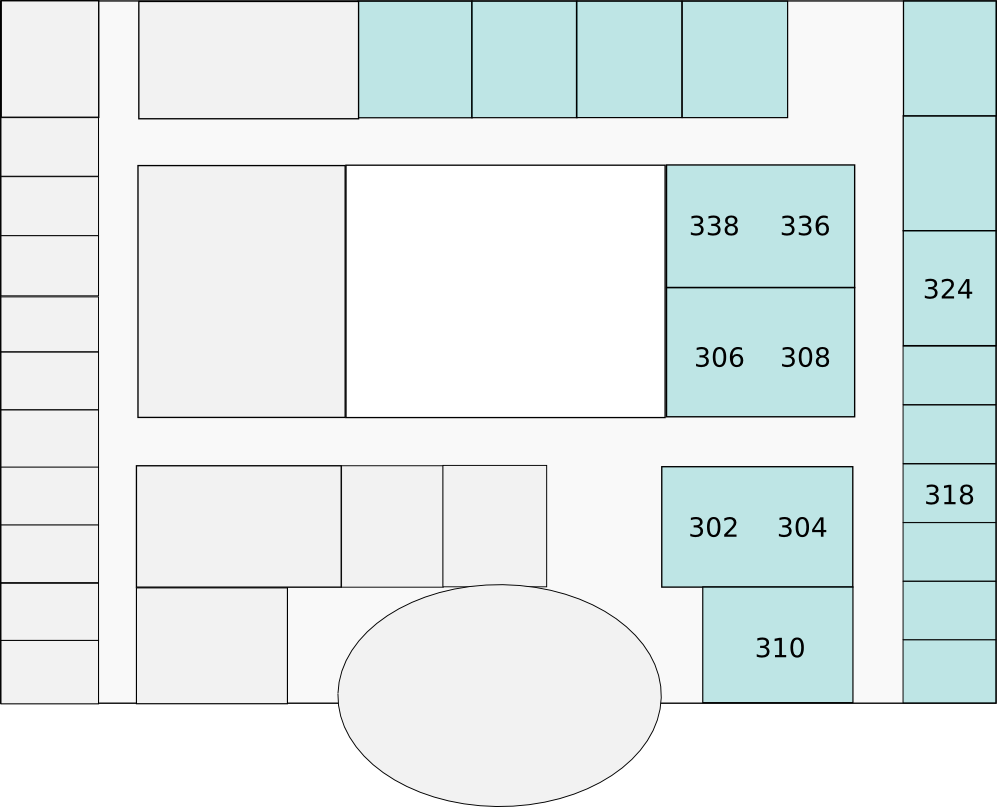
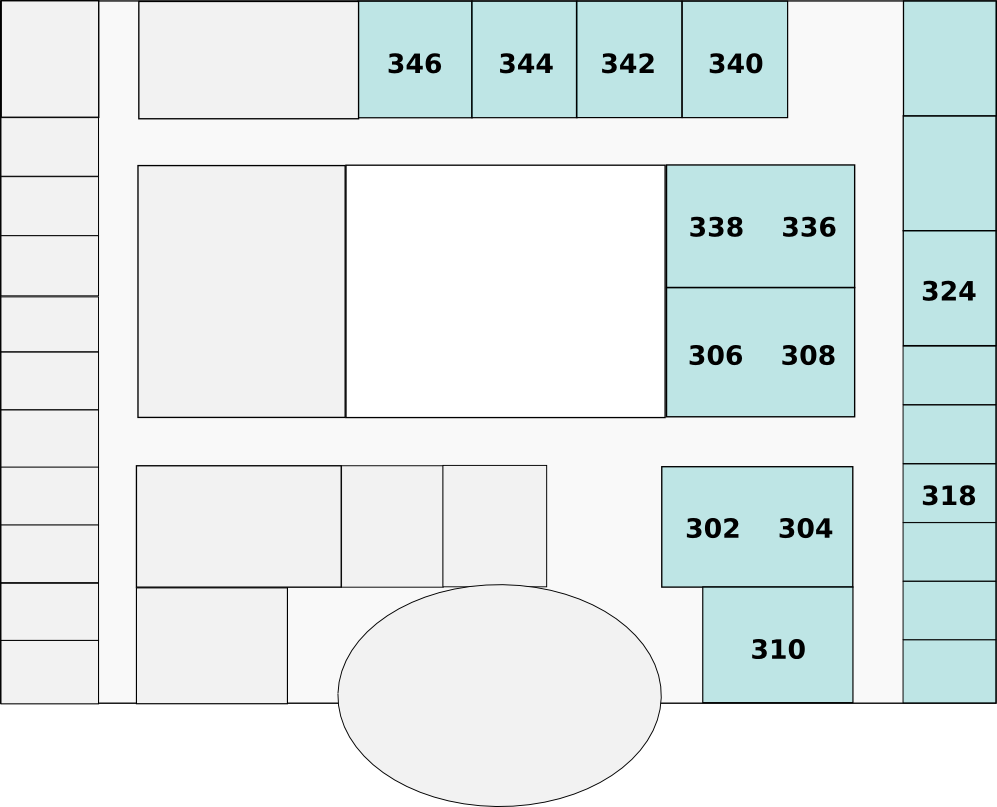
add 4 rooms: R346, R344, R342, R340

diff --git a/index.html b/index.html
@@ -130,7 +130,7 @@
                             <div id="win_21" class="win"></div>
                             <!-- rooms -->
                             <div id="room_1" data-toggle="modal" href="#room_1_detail" class="room"></div> <!--r336_r338 -->
-                            <div id="room_1_detail" class="modal hide fade">
+                            <!--<div id="room_1_detail" class="modal hide fade">
                                 <div class="modal-header">
                                     <button type="button" class="close" data-dismiss="modal">&times;</button>
                                     <h3>R336/R338</h3>
@@ -140,9 +140,9 @@
                                 <div class="modal-footer">
                                     <a href="#" class="btn" data-dismiss="modal" >Close</a>
                                 </div>
-                            </div>
+                            </div>-->
                             <div id="room_2" data-toggle="modal" href="#room_2_detail" class="room"></div> <!--r306_r308 -->
-                            <div id="room_2_detail" class="modal hide fade">
+                            <!--<div id="room_2_detail" class="modal hide fade">
                                 <div class="modal-header">
                                     <button type="button" class="close" data-dismiss="modal">&times;</button>
                                     <h3>R306/R308</h3>
@@ -152,9 +152,9 @@
                                 <div class="modal-footer">
                                     <a href="#" class="btn" data-dismiss="modal" >Close</a>
                                 </div>
-                            </div>
+                            </div>-->
                             <div id="room_3" data-toggle="modal" href="#room_3_detail" class="room"></div> <!--r302_r304 -->
-                            <div id="room_3_detail" class="modal hide fade">
+                            <!--<div id="room_3_detail" class="modal hide fade">
                                 <div class="modal-header">
                                     <button type="button" class="close" data-dismiss="modal">&times;</button>
                                     <h3>R302/R304</h3>
@@ -164,9 +164,9 @@
                                 <div class="modal-footer">
                                     <a href="#" class="btn" data-dismiss="modal" >Close</a>
                                 </div>
-                            </div>
+                            </div>-->
                             <div id="room_4" data-toggle="modal" href="#room_4_detail" class="room"></div> <!--r310 -->
-                            <div id="room_4_detail" class="modal hide fade">
+                            <!--<div id="room_4_detail" class="modal hide fade">
                                 <div class="modal-header">
                                     <button type="button" class="close" data-dismiss="modal">&times;</button>
                                     <h3>R310</h3>
@@ -176,9 +176,9 @@
                                 <div class="modal-footer">
                                     <a href="#" class="btn" data-dismiss="modal" >Close</a>
                                 </div>
-                            </div>
+                            </div>-->
                             <div id="room_5" data-toggle="modal" href="#room_5_detail" class="room"></div> <!--r324 -->
-                            <div id="room_5_detail" class="modal hide fade">
+                            <!--<div id="room_5_detail" class="modal hide fade">
                                 <div class="modal-header">
                                     <button type="button" class="close" data-dismiss="modal">&times;</button>
                                     <h3>R324</h3>
@@ -193,9 +193,9 @@
                                 <div class="modal-footer">
                                     <a href="#" class="btn" data-dismiss="modal" >Close</a>
                                 </div>
-                            </div> 
+                            </div>-->
                             <div id="room_6" data-toggle="modal" href="#room_6_detail" class="room"></div> <!--r318 -->
-                            <div id="room_6_detail" class="modal hide fade">
+                            <!--<div id="room_6_detail" class="modal hide fade">
                                 <div class="modal-header">
                                     <button type="button" class="close" data-dismiss="modal">&times;</button>
                                     <h3>R318</h3>
@@ -205,7 +205,13 @@
                                 <div class="modal-footer">
                                     <a href="#" class="btn" data-dismiss="modal" >Close</a>
                                 </div>
-                            </div>
+                            </div>-->
+
+                            <div id="room_7" data-toggle="modal" href="#room_7_detail" class="room"></div> <!--r346 -->
+                            <div id="room_8" data-toggle="modal" href="#room_8_detail" class="room"></div> <!--r344 -->
+                            <div id="room_9" data-toggle="modal" href="#room_9_detail" class="room"></div> <!--r342 -->
+                            <div id="room_10" data-toggle="modal" href="#room_10_detail" class="room"></div> <!--r340 -->
+
 
                             <div id="info" >
                                 <li><img src="img/others/char-cold.png"/> : Cold </li>
@@ -298,24 +304,16 @@
                                             <input type="hidden" id="location_id" />
                                         </a>
                                         <ul class="dropdown-menu">
-                                            <li>
-                                                <a href="#" id="1" >R336/R338</a>
-                                            </li>
-                                            <li>
-                                                <a href="#" id="2" >R306/R308</a>
-                                            </li>
-                                            <li>
-                                                <a href="#" id="3" >R302/R304</a>
-                                            </li>
-                                            <li>
-                                                <a href="#" id="4" >R310</a>
-                                            </li>
-                                            <li>
-                                                <a href="#" id="5" >R324</a>
-                                            </li>
-                                            <li>
-                                                <a href="#" id="6" >R318</a>
-                                            </li>
+                                            <li><a href="#" id="1" >R336/R338</a></li>
+                                            <li><a href="#" id="2" >R306/R308</a></li>
+                                            <li><a href="#" id="3" >R302/R304</a></li>
+                                            <li><a href="#" id="4" >R310</a></li>
+                                            <li><a href="#" id="5" >R324</a></li>
+                                            <li><a href="#" id="6" >R318</a></li>
+                                            <li><a href="#" id="7" >R346</a></li>
+                                            <li><a href="#" id="8" >R344</a></li>
+                                            <li><a href="#" id="9" >R342</a></li>
+                                            <li><a href="#" id="10" >R340</a></li>
                                         </ul>
                                     </div>
                                     

diff --git a/assets/css/bootstrap-responsive.css b/assets/css/bootstrap-responsive.css
@@ -368,6 +368,75 @@
     
   }
 
+  /*r318*/
+  #room_6 {
+    position: absolute;
+    cursor: pointer;
+  
+    width: 25px;
+    height: 16px;
+    display: block;
+
+    margin-top: 120px;
+    margin-left: 235px;
+    
+  }
+
+  /*r346*/
+  #room_7 {
+    position: absolute;
+    cursor: pointer;
+  
+    width: 29px;
+    height: 31px;
+    display: block;
+
+    margin-top: 0px;
+    margin-left: 94px;
+    
+  }
+
+  /*r344*/
+  #room_8 {
+    position: absolute;
+    cursor: pointer;
+  
+    width: 28px;
+    height: 31px;
+    display: block;
+
+    margin-top: 0px;
+    margin-left: 123px;
+    
+  }
+
+  /*r342*/
+  #room_9 {
+    position: absolute;
+    cursor: pointer;
+  
+    width: 27px;
+    height: 31px;
+    display: block;
+
+    margin-top: 0px;
+    margin-left: 151px;
+  }
+
+  /*r340*/
+  #room_10 {
+    position: absolute;
+    cursor: pointer;
+  
+    width: 28px;
+    height: 31px;
+    display: block;
+
+    margin-top: 0px;
+    margin-left: 178px;
+    
+  }
+
   #mrc_1 {
     margin-top: 20px;
     margin-left: 180px;

diff --git a/assets/css/style.css b/assets/css/style.css
@@ -611,6 +611,60 @@ div.offline {
   margin-left: 498px;
 }
 
+
+/*r346*/
+#room_7 {
+  position: absolute;
+  cursor: pointer;
+  
+  width: 62px;
+  height: 65px;
+  display: block;
+
+  margin-top: 0px;
+  margin-left: 198px;
+}
+
+
+/*r344*/
+#room_8 {
+  position: absolute;
+  cursor: pointer;
+  
+  width: 57px;
+  height: 65px;
+  display: block;
+
+  margin-top: 0px;
+  margin-left: 261px;
+}
+
+/*r342*/
+#room_9 {
+  position: absolute;
+  cursor: pointer;
+  
+  width: 59px;
+  height: 65px;
+  display: block;
+
+  margin-top: 0px;
+  margin-left: 318px;
+}
+
+/*r340*/
+#room_10 {
+  position: absolute;
+  cursor: pointer;
+  
+  width: 58px;
+  height: 65px;
+  display: block;
+
+  margin-top: 0px;
+  margin-left: 377px;
+}
+
 #problem_select{
   
   display: inline-block;
